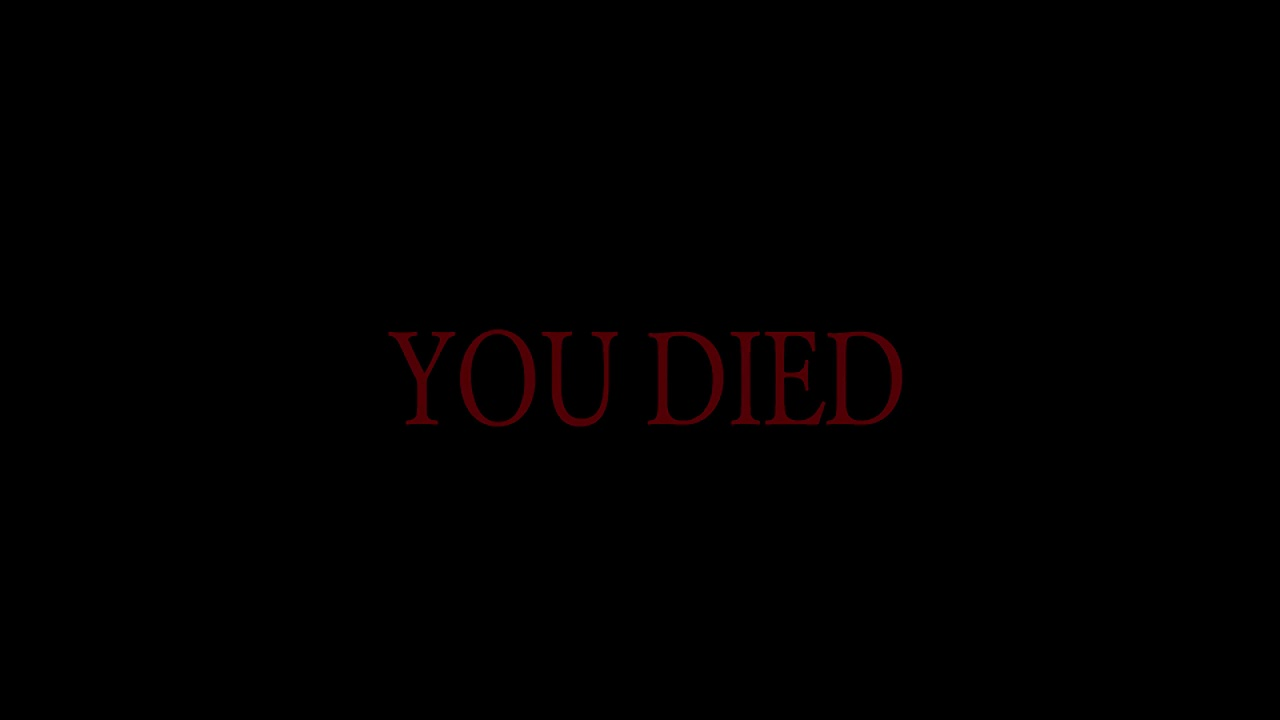
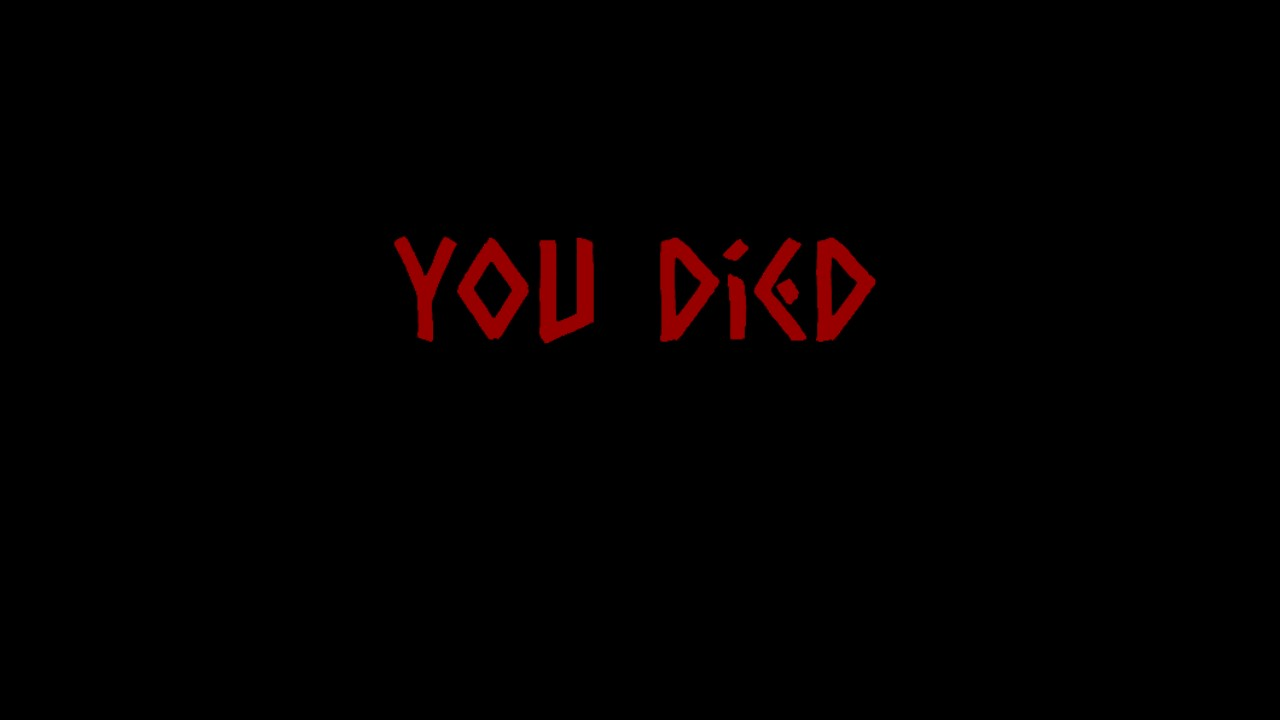
Cambios en los menús, y arreglo audio

Changed region(s): [[0.3125, 0.3361, 0.7188, 0.6111], [0.375, 0.5806, 0.4062, 0.6111]]

diff --git a/src/scenes/PauseScene.js b/src/scenes/PauseScene.js
@@ -8,9 +8,20 @@ export default class PauseScene extends Phaser.Scene {
     }
     create(){
         this.p = this.input.keyboard.addKey('P'); 
-        var pauseSymbol = this.add.image(300,200,'pauseButton1'); //Imagen de pausa
-        var resumeButton2 = this.add.sprite(300, 400, 'resumeButton2').setInteractive(); //Botón de pausa
-        var resumeButton = this.add.sprite(300, 400, 'resumeButton').setInteractive();
+        var pauseSymbol = this.add.image(300,150,'pauseButton1'); //Imagen de pausa
+        var resumeButton2 = this.add.sprite(300, 300, 'resumeButton2').setInteractive(); //Botón de pausa
+        var resumeButton = this.add.sprite(300, 300, 'resumeButton').setInteractive();
+        var restartButton = this.add.sprite(300, 400, 'backToMenuButton').setInteractive();
+        restartButton.setScale(0.3, 0.3);
+
+        restartButton.on('pointerup', function(pointer)
+        {
+            self.scene.stop('PauseScene');
+            self.scene.stop('HUD');
+            self.scene.stop(self.levelScene);
+            self.sys.game.sound.stopAll();
+            self.scene.launch('StartMenu');
+        });
         pauseSymbol.setScale(0.6, 0.6);
         resumeButton2.setScale(0.3, 0.3);
         resumeButton.setScale(0.3, 0.3);

diff --git a/src/scenes/YouWin.js b/src/scenes/YouWin.js
@@ -8,14 +8,14 @@ export default class YouWin extends Phaser.Scene {
     }
     create(){
         var fondo = this.add.image(310,200,'youWin');
-        var restartButton = this.add.sprite(300, 350, 'backToMenuButton').setInteractive();
+        var restartButton = this.add.sprite(300, 380, 'backToMenuButton').setInteractive();
         restartButton.setScale(0.3, 0.3);
 
         let self = this;
         restartButton.on('pointerup', function(pointer)
         {
-            self.scene.launch('TopSecret');
-            //self.scene.launch('StartMenu');
+            self.scene.stop('TopSecret');
+            self.scene.launch('StartMenu');
             self.scene.stop('YouWin');
         });
         //Audio del nivel
@@ -30,6 +30,14 @@ export default class YouWin extends Phaser.Scene {
         };
         var levelTheme = this.sound.add("victory", config);
         levelTheme.play();
+        var timer = this.time.addEvent({
+            delay: 20000,
+            callback: topSecretF,
+            loop: false
+        });
+        function topSecretF(){
+            self.scene.launch('TopSecret');
+        }
     }
     
 }

diff --git a/src/scenes/boot.js b/src/scenes/boot.js
@@ -67,7 +67,7 @@ export default class boot extends Phaser.Scene{
         this.load.image('youDied', 'assets/Menu/youDied.jpg');
         this.load.image('restartButton', 'assets/Menu/restartButton.png');
         this.load.image('restartButton2', 'assets/Menu/restartButton2.png');
-        this.load.image('startMenu', 'assets/Menu/startMenu.jpg');
+        this.load.image('startMenu', 'assets/Menu/MenuImage.jpg');
         this.load.image('startButton', 'assets/Menu/startButton.png');
         this.load.image('startButton2', 'assets/Menu/startButton2.png');
         this.load.image('pauseButton1', 'assets/Menu/pauseButton1.png');

diff --git a/src/scenes/YouDied.js b/src/scenes/YouDied.js
@@ -14,7 +14,7 @@ export default class YouDied extends Phaser.Scene {
         restartButton2.setScale(0.3, 0.3);
         restartButton.setScale(0.3, 0.3);
         this.scene.stop('HUD');
-
+        
         let self = this;
         restartButton.on('pointerdown', function(pointer)
         {
@@ -25,6 +25,7 @@ export default class YouDied extends Phaser.Scene {
         {
             restartButton.setVisible(true);
             self.scene.launch(self.levelScene);
+            self.sys.game.sound.stopAll();
             self.scene.stop('YouDied');
         });
     }

diff --git a/src/scenes/Level4.js b/src/scenes/Level4.js
@@ -174,6 +174,7 @@ export default class Level4 extends Phaser.Scene {
         function nextScene(){
             if(escena.numGems >= 4){
                 escena.scene.stop('Level4');
+                escena.scene.stop('HUD');
                 escena.player.stopAudio();
                 escena.medusa.stopAudio();
                 escena.scene.launch('YouWin');

diff --git a/src/scenes/topsecret.js b/src/scenes/topsecret.js
@@ -56,8 +56,9 @@ export default class TopSecret extends Phaser.Scene {
             repeat: -1
         });
 
-        this.add.sprite(400, 300, 't1')
-            .play('cookies');
+        var movie = this.add.sprite(135, 0, 't1').play('cookies');
+        movie.setOrigin(0,0);
+        movie.setScale(2.2,2.2);
     }
     
 }

diff --git a/documents/assets.md b/documents/assets.md
@@ -12,8 +12,8 @@ Links de los assets del juego:
 
 Links de las imágenes:
 - <ins>**Ending image**</ins>: https://media.istockphoto.com/id/1021586318/vector/view-at-the-mouth-of-the-cave.jpg?s=612x612&w=0&k=20&c=vojhnIE4VxjfGkCX0RSMdNraaiJWaQiygIveYxhpGII=
-- <ins>**Menu image**</ins>: https://preview.redd.it/9meg1a60v8x61.png?auto=webp&s=928d650597b74d06d4d72bad57d38b396d972806
-- <ins>**You died image**</ins>: https://i.ytimg.com/vi/-ZGlaAxB7nI/maxresdefault.jpg
+- <ins>**Controls menu image**</ins>: https://preview.redd.it/9meg1a60v8x61.png?auto=webp&s=928d650597b74d06d4d72bad57d38b396d972806
+- <ins>**Menu image**</ins>: https://i.pinimg.com/originals/64/35/6b/64356b7056ad04dee973bb55f35d4ace.jpg
 
 Links de los audios:
 - <ins>**Enemies moving**</ins>: https://freesound.org/people/Breviceps/sounds/457529/
@@ -27,4 +27,4 @@ Links de los audios:
 
 A excepción de estos assets, el resto son propios.
 Esto incluye, todos los botones, el logo del juego, los diseños de los personajes, trampas y objetos interactuables ( a excepción de las gemas ).
-
+Y obviamente, el secreto oculto también.
